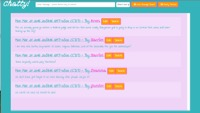
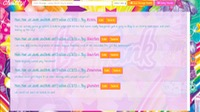
made lisa frank more appropriate

diff --git a/chattystyle.css b/chattystyle.css
@@ -71,14 +71,15 @@ body {
 /***************************** SETS STYLE FOR THEME 1 (Lisa Frank) ********************************/
 /*Main Theme Assets*/
 .theme1 {
-  background-color: #3CB4B9;
+  background: url(img/theme1lisa.jpg) black center center fixed;
+  background-size: cover;
   color: white;
   font-family: 'Indie Flower', cursive;
 }
 
 /*Main Theme Assets*/
 .theme1 #message-area {
-  background-color: #F0D5F7;
+  background-color: rgba(240, 213, 247, .9);
   color: #3CB4B9;
 }
 
